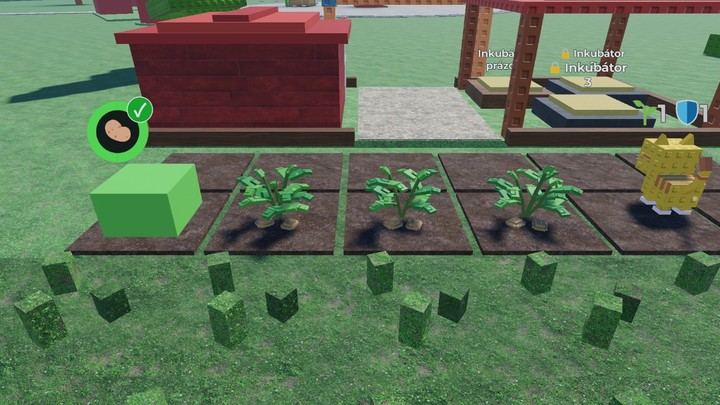
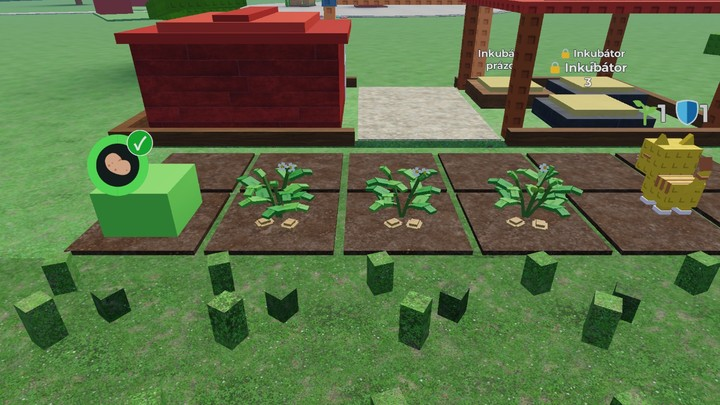
Add Potato flower and berry studies using anatomy references

diff --git a/docs/EXPANSION.md b/docs/EXPANSION.md
@@ -234,9 +234,10 @@ Perennials will retain structure maturity while fruit slots have separate growth
 #### CG3 — Potato growth design (for review)
 
 **CG3a** is the [ripe silhouette comparison](art/potato/ripe-studies.jpg), captured from Studio with the actual field renderer:
-A, a bushy upright plant (48 Parts); B, open branching (44); C, leaning upright (48).
+A, a bushy upright plant with two flowers (63 Parts); B, open branching with two flowers (59);
+C, leaning upright with a flower and two green berries (59).
 All three have several green shoots, leaf pairs at different heights and two partly buried brown tuber shoulders.
-The measured mature height is about 2.75–3.08 studs; ground width is about 3.18–3.47 studs on the 5.5-stud square.
+The upright foliage, flowers and visible tuber tops fit within each 5.5-stud square.
 See the [field](art/potato/field.jpg) and [phone-size view](art/potato/phone.jpg). The reproduction tool is
 [`potato_ripe_studies.luau`](../tools/potato_ripe_studies.luau). The developer selects the silhouette before CG3b motion work.
 
@@ -245,13 +246,19 @@ shows upright branching stems with broad paired leaflets at several heights. Ale
 Use that structure for the mature silhouette, with brown tuber tops peeking through the soil as an intentional game readability shortcut.
 The proposed ten-second annual growth emphasizes height first, followed by lateral branches and unfolding compound leaves.
 
+The [anatomy sketch](art/potato/anatomy-reference.png) and [flower photo](art/potato/flower-reference.png) supplied by Ales anchor the
+organ placement. Compound leaflets sit along short lateral stalks. Flower clusters sit above the foliage, with five pale lobes and
+a raised yellow center. Later, small green berries can hang from an upper side stalk. They are decorative; the harvest cue remains
+the brown tuber shoulders at soil level. The shown white flowers follow the close-up photo. Buried roots and stolons can inform a
+future extraction effect; the standing plant only draws the visible tuber tops.
+
 | Growth | Proposed motion |
 |---|---|
 | 0% | A small green shoot breaks the soil. |
 | 20% | Two leaves open at slightly different times, pivoting from the shoot. |
 | 50% | Several unequal upright stems lengthen. Side branches develop paired leaves at lower, middle and upper nodes. |
-| 75% | The layered canopy fills. Small brown tuber shoulders begin to emerge at the soil line. |
-| 100% | The bush reaches its full height and spread. Outer leaf tips settle lower; brown shoulders remain visible beneath the foliage. |
+| 75% | The layered canopy fills and the upper buds open into white/yellow flowers. Brown tuber shoulders begin to emerge at the soil line. |
+| 100% | Some flowers can give way to small green berries. Outer leaf tips settle lower; brown tuber shoulders remain the harvest cue. |
 
 Seeded variation changes shoot angles, canopy spread, leaf sizes and shoulder placement within the selected silhouette.
 **CG3b** reviews a continuous scrubber and seeded loop. **CG3c** registers the approved Potato recipe in the field.

diff --git a/docs/ROADMAP.md b/docs/ROADMAP.md
@@ -105,7 +105,8 @@ the balancing pass (STAGES §6, GDD §6).
 detail levels, seed identity and scheduling handle it. [Design and interface](EXPANSION.md#cg2--shared-plant-growth-built)
 
 **CG3 — Potato growth art** follows the same review sequence. **CG3a** was revised to upright, layered foliage from Ales's photo
-(2026-11-09); the low flat studies were rejected. The three revised silhouettes are ready for selection:
+(2026-11-09); the low flat studies were rejected. The flower/anatomy references now guide upper blooms and later decorative green berries.
+The three revised silhouettes are ready for selection:
 [A / B / C](art/potato/ripe-studies.jpg) · [Field](art/potato/field.jpg) · [Phone-size view](art/potato/phone.jpg).
 Next are **CG3b** motion/seed review, **CG3c** field integration and **CG3d** performance checks.
 
